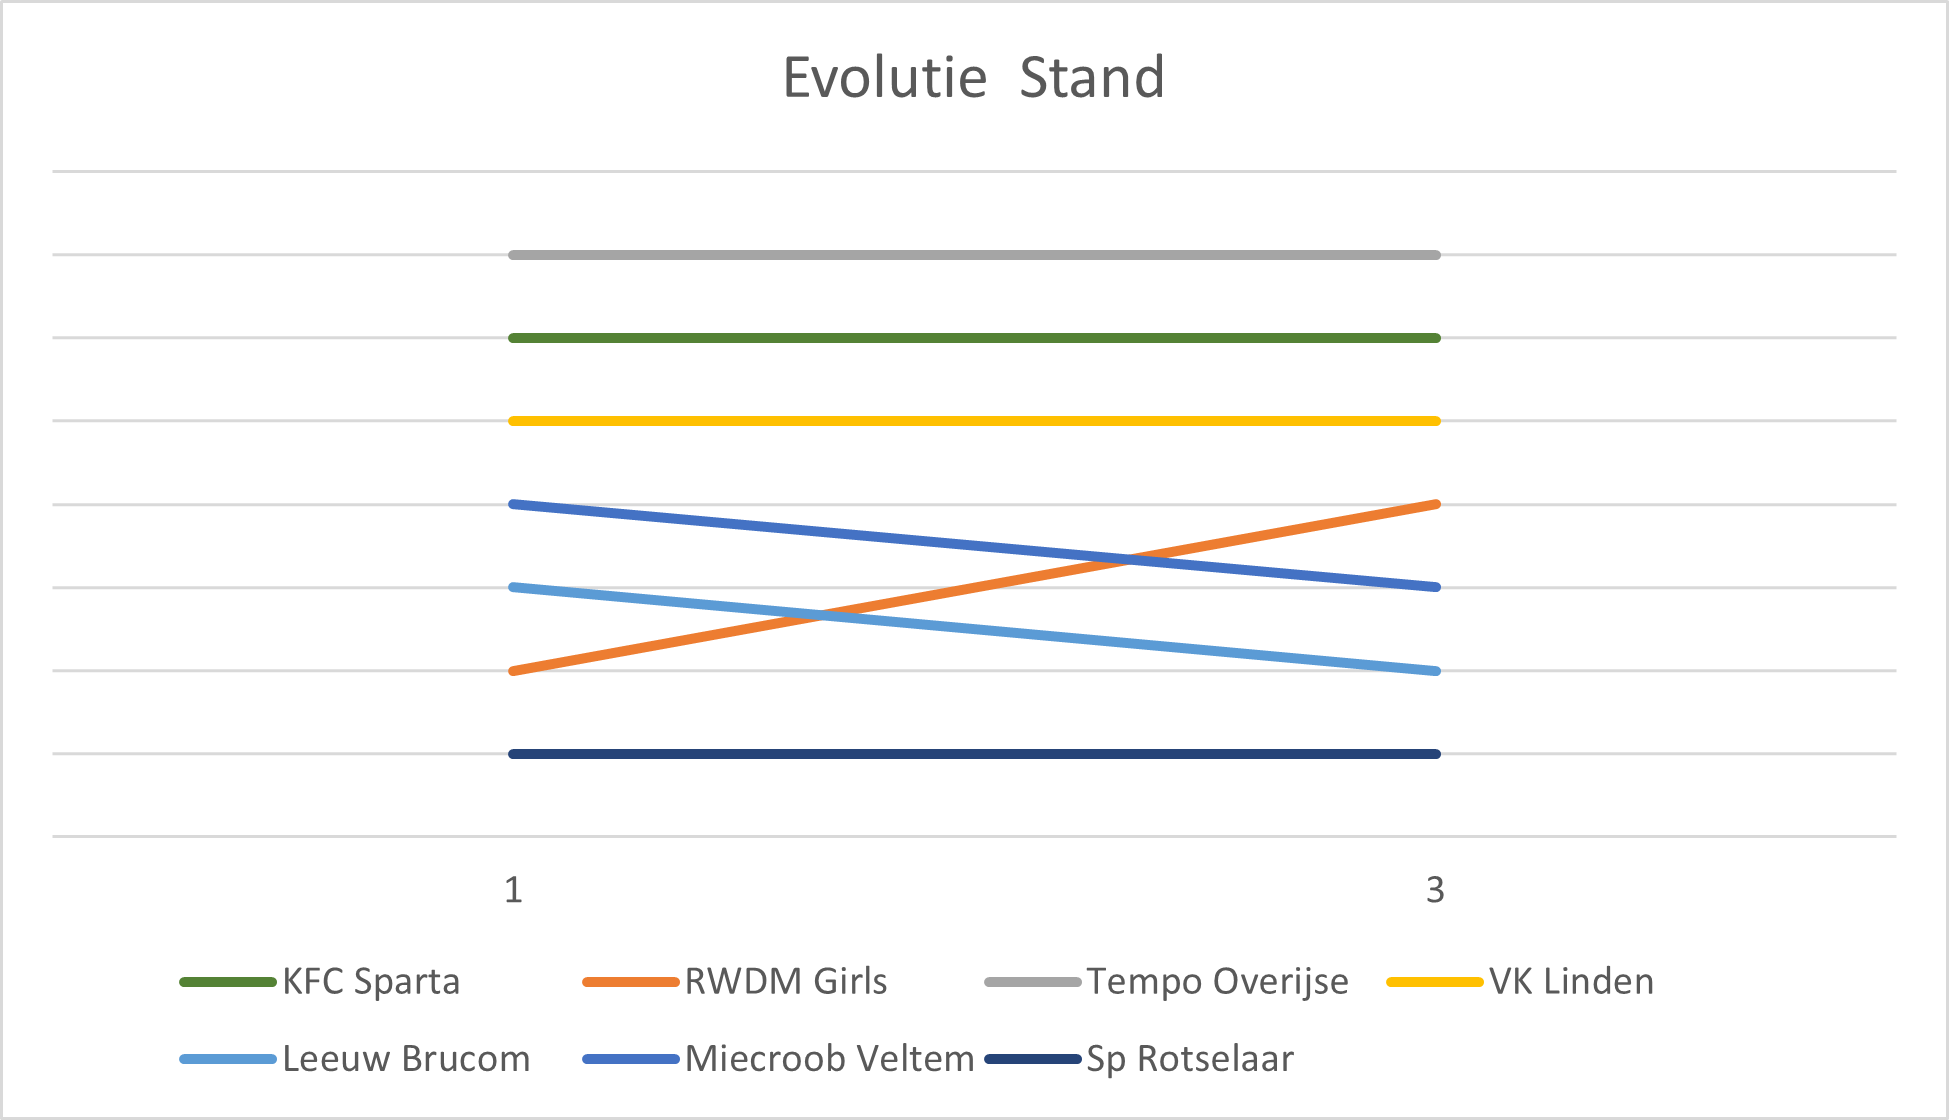
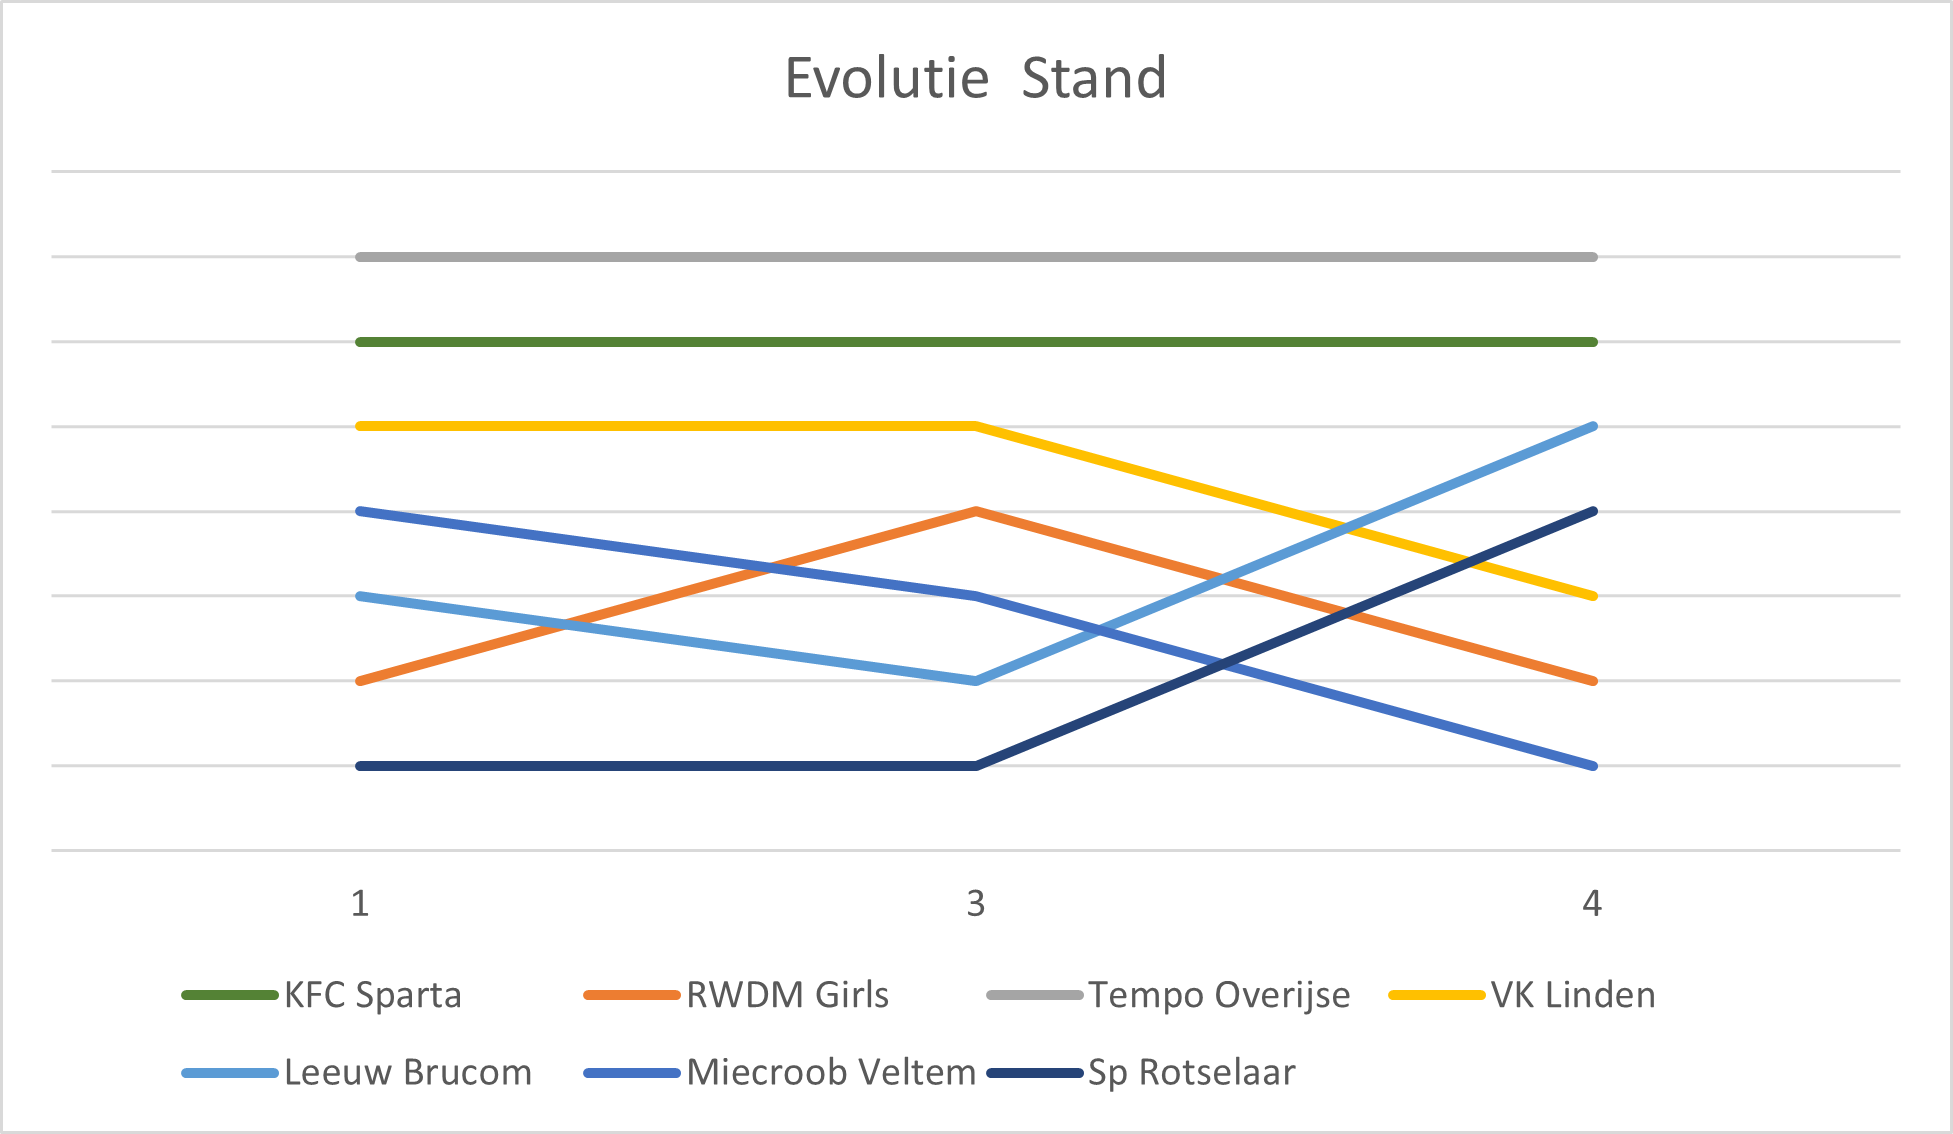
Update

diff --git a/README.md b/README.md
@@ -11,6 +11,8 @@ Op deze pagina vind je allerlei nuttige informatie & afspraken voor de MU 16 sei
 
 ## Volgende wedstrijd
 
+> Geen wedstrijd dit weekend!
+
 <!--
 > Volgende **thuis** wedstrijd is op zondag **28 januari** tegen **VK Linden** om **10.30** (09.30 ter plaatse)
 
@@ -20,7 +22,7 @@ Op deze pagina vind je allerlei nuttige informatie & afspraken voor de MU 16 sei
 -->
 
 
-> Volgende **uit** wedstrijd is op zaterdag **3 februari** tegen **Leeuw Brucom** om **10.00** (09.00 ter plaatse of 08.00 vertrekken op Sparta) 
+<!-- > Volgende **uit** wedstrijd is op zaterdag **3 februari** tegen **Leeuw Brucom** om **10.00** (09.00 ter plaatse of 08.00 vertrekken op Sparta) 
 
 > fruit & was: Imke
 
@@ -28,7 +30,7 @@ Op deze pagina vind je allerlei nuttige informatie & afspraken voor de MU 16 sei
 Lotstraat - terrein 3 <br>
 Lotstraat 10<br>
 1600 St-Pieters-Leeuw <br>
-[map](https://www.google.com/maps/place/lotstraat+10,+1600+sint-pieters-leeuw/@50.7752662,4.2599678,17z/data=!3m1!4b1!4m6!3m5!1s0x47c3c625aedd01e9:0xbb381381b63e5bee!8m2!3d50.7752662!4d4.2625427!16s%2fg%2f11g0tg893f?entry=ttu) 
+[map](https://www.google.com/maps/place/lotstraat+10,+1600+sint-pieters-leeuw/@50.7752662,4.2599678,17z/data=!3m1!4b1!4m6!3m5!1s0x47c3c625aedd01e9:0xbb381381b63e5bee!8m2!3d50.7752662!4d4.2625427!16s%2fg%2f11g0tg893f?entry=ttu)  -->
 
 
 
@@ -68,7 +70,6 @@ Eikestraat <br>
 
 Datum   | Thuis | Uit   | Tegenstander          | Uur
 ---     |:---:  |:---:  |---                    | ---
-za 3-Feb||☑|[Leeuw Brucom](https://www.google.com/maps/place/Lotstraat+10,+1600+Sint-Pieters-Leeuw/@50.7752662,4.2599678,17z/data=!3m1!4b1!4m6!3m5!1s0x47c3c625aedd01e9:0xbb381381b63e5bee!8m2!3d50.7752662!4d4.2625427!16s%2Fg%2F11g0tg893f?entry=ttu)|10.00
 zo 18-Feb|☑||Miecroob Veltem|11.30
 za 24-Feb||☑|[Sp Rotselaar](https://www.google.com/maps/dir/50.9634811,4.6068242/Torenstraat+115,+3110+Rotselaar/@50.9603615,4.6441266,14z/data=!3m1!4b1!4m10!4m9!1m1!4e1!1m5!1m1!1s0x47c15e7e3f89dd13:0x7e530a7ae390eaf8!2m2!1d4.7238493!2d50.9575009!3e0?entry=ttu)| 15.30
 za 9-Maa||☑|[RWDM Girls](https://www.google.com/maps/dir/50.9634811,4.6068242/Mahatma+Gandhilaan,+1080+Sint-Jans-Molenbeek/@50.8591083,4.3260723,209m/data=!3m1!1e3!4m10!4m9!1m1!4e1!1m5!1m1!1s0x47c3c3f02cd025f3:0x7af10a544961ee00!2m2!1d4.3256741!2d50.8588073!3e0?entry=ttu)|14.00
@@ -93,6 +94,7 @@ Symbool   | Status
 
 Datum   | Thuis | Uit    | Tegenstander        | Uitslag
 ---     |:---:  |:---:   |---                  |---
+3-Feb   |       |✅     |Leeuw Brucom           |4-3
 28-Jan  |✅     |       |VK Linden              |**2-2**
 14-Jan  |✅     |       | RWDM Girls            |**6-0**
 
@@ -118,12 +120,13 @@ Datum   | Thuis | Uit    | Tegenstander        | Uitslag
 Team	|	PTS	|	M	|	W	|	V	|	G	|	+	|	-	|	+/-
 ---	|	---	|	---	|	---	|	---	|	---	|	---	|	---	|	---
 Tempo Overijse	|	4	|	2	|	1	|	0	|	1	|	19	|	7	|	12
-KFC Sparta	|	4	|	2	|	1	|	0	|	1	|	8	|	2	|	6
+KFC Sparta	|	4	|	3	|	1	|	1	|	1	|	11	|	6	|	5
+Leeuw Brucom	|	3	|	1	|	1	|	0	|	0	|	4	|	3	|	1
+Sp Rotselaar	|	3	|	2	|	1	|	1	|	0	|	6	|	17	|	-11
 VK Linden	|	1	|	1	|	0	|	0	|	1	|	2	|	2	|	0
 RWDM Girls	|	1	|	2	|	0	|	1	|	1	|	6	|	12	|	-6
-Miecroob Veltem	|	0	|	0	|	0	|	0	|	0	|	0	|	0	|	0
-Leeuw Brucom	|	0	|	0	|	0	|	0	|	0	|	0	|	0	|	0
-Sp Rotselaar	|	0	|	1	|	0	|	1	|	0	|	1	|	13	|	-12
+Miecroob Veltem	|	0	|	1	|	0	|	1	|	0	|	4	|	5	|	-1
+
 
 ![Sparta](/assets/ranking2.png)
 
@@ -194,7 +197,7 @@ Naam        | 14-Jan    |21-Jan     |28-Jan     |03-Feb     |18-Feb     |24-Feb 
 Gitte	    |✅         |           |           |           |           |           |           |           |           |           |           |
 Dee Dee	    |           |☑         |           |           |           |           |           |           |           |           |           |
 Margue	    |           |           |✅           |         |           |           |           |           |           |           |           |
-Imke	    |           |           |           |☑           |         |           |           |           |           |           |           |
+Imke	    |           |           |           |✅           |         |           |           |           |           |           |           |
 Tille	    |           |           |           |           |☑           |         |           |           |           |           |           |
 Lize        |           |           |           |           |           |☑           |         |           |           |           |           |
 Morane		|           |           |           |           |           |           |☑           |           |         |           |           |
@@ -303,7 +306,7 @@ Dit zijn de data waarop we als ploeg moeten instaan voor de toog. 3 personen zij
 
 Datum   | Tijdstip  | Wie (Ouder(s) van)
 ---     | ---       | ---
-18 Feb  |09.30-12.30| ☑ Esmee
+18 Feb  |09.30-12.30| ✅ Esmee
 18 Feb  |09.30-12.30| ☑ ?     
 18 Feb  |09.30-12.30| ☑ ?     
 
